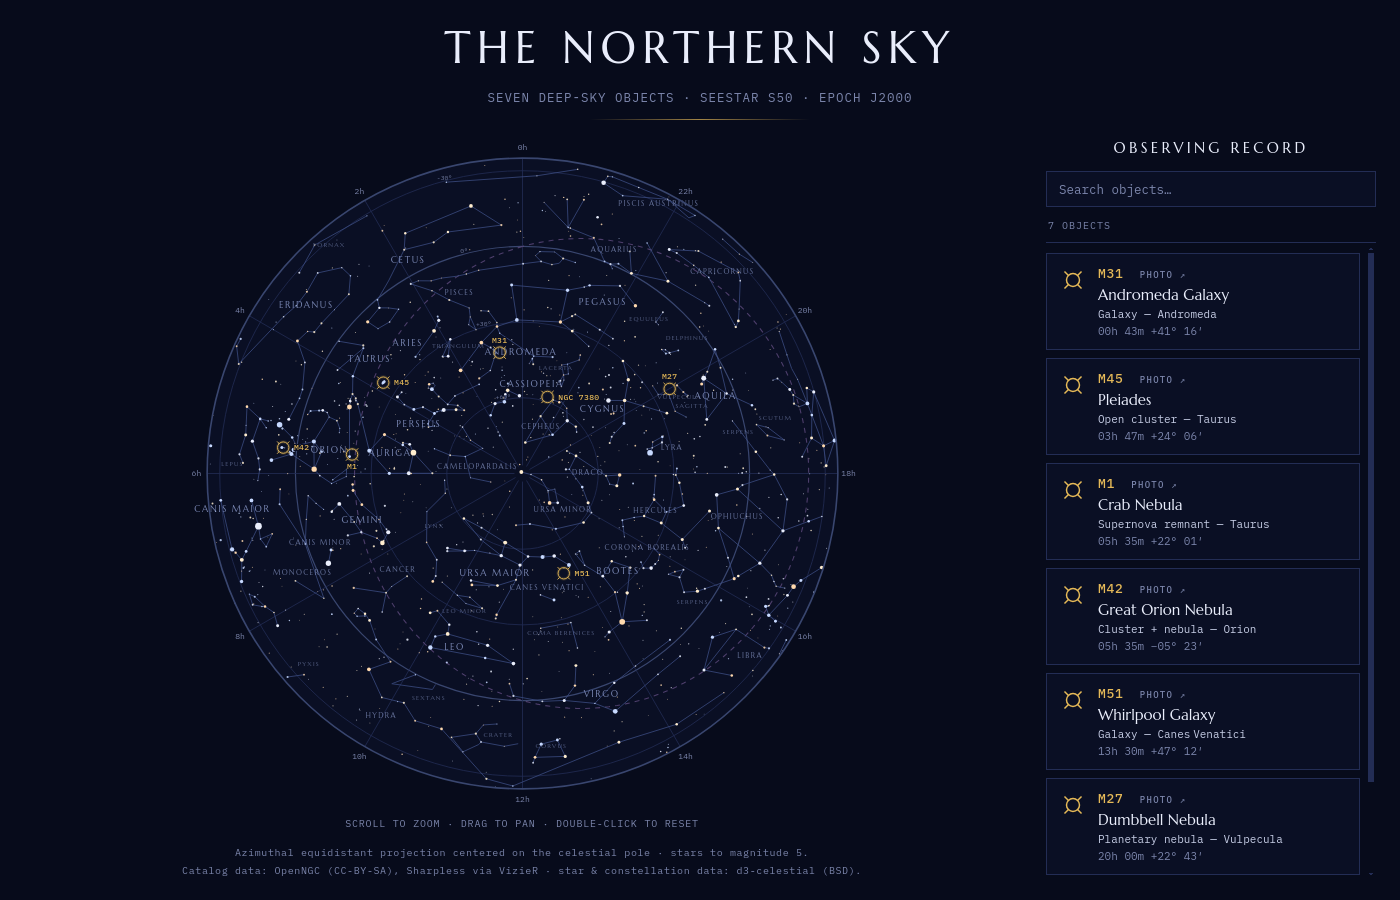
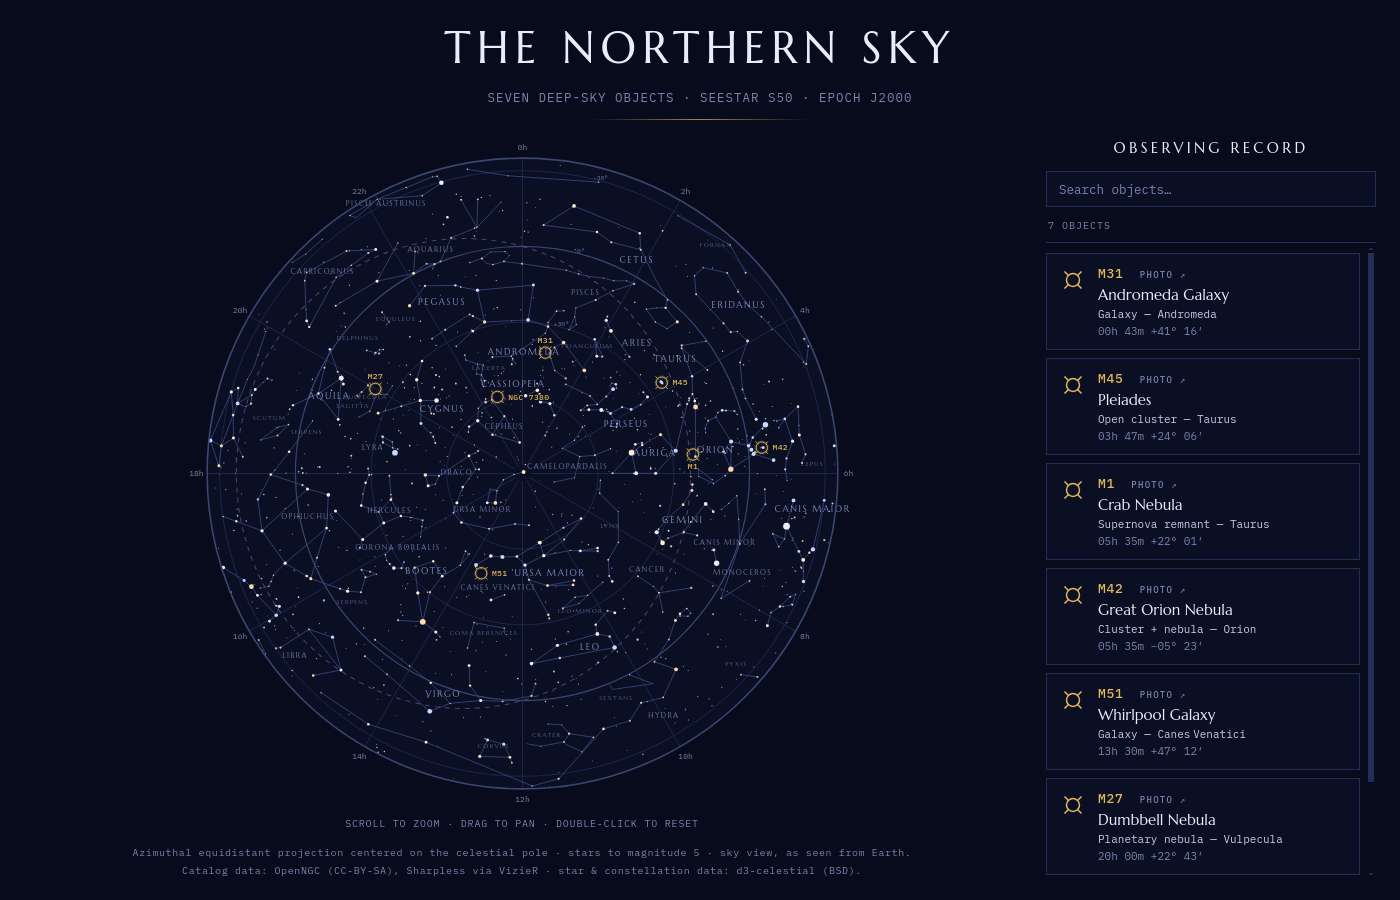
Default to true sky view; add mirror option (v0.3.0)
Polar discs were drawn with the celestial-globe chirality (RA
counterclockwise on the northern disc), the mirror image of the real
sky. Sky charts are views from inside the sphere: north-up/east-left on
equatorial charts, which carried to the pole means RA runs clockwise on
a northern disc and counterclockwise on a southern one.

Sky view is now the default. `mirror: true` in the config (or the
--mirror CLI flag) restores the globe orientation, which also matches
the view through a telescope star diagonal. The footer names the active
orientation.

diff --git a/src/uranometria/chart.py b/src/uranometria/chart.py
@@ -10,13 +10,19 @@ DEC_EDGE = 35.0  # how far past the equator each hemisphere chart reaches
 SCALE = R_MAX / (90.0 + DEC_EDGE)
 
 
-def project(ra_deg, dec_deg, south=False):
-    """Azimuthal equidistant about the celestial pole. Northern charts run RA
-    counterclockwise (0h at top); southern charts mirror it clockwise."""
+def ra_sign(south=False, mirror=False):
+    """Horizontal sense of increasing RA. Sky view (the default) shows the sky
+    as seen from Earth: RA runs clockwise on a northern polar disc and
+    counterclockwise on a southern one. Mirror view flips both — the
+    celestial-globe orientation, matching the view through a star diagonal."""
+    return 1.0 if south == mirror else -1.0
+
+
+def project(ra_deg, dec_deg, south=False, mirror=False):
+    """Azimuthal equidistant about the celestial pole, 0h at top."""
     r = (90.0 + dec_deg if south else 90.0 - dec_deg) * SCALE
     a = math.radians(ra_deg)
-    x = CX + r * math.sin(a) if south else CX - r * math.sin(a)
-    return x, CY - r * math.cos(a)
+    return CX + ra_sign(south, mirror) * r * math.sin(a), CY - r * math.cos(a)
 
 
 def visible(dec, south):
@@ -40,8 +46,10 @@ def star_color(bv):
 class Chart:
     """One hemisphere disc."""
 
-    def __init__(self, south, sky_data, mag_limit, show_ecliptic):
+    def __init__(self, south, sky_data, mag_limit, show_ecliptic, mirror=False):
         self.south = south
+        self.mirror = mirror
+        self.sign = ra_sign(south, mirror)
         self.data = sky_data
         self.mag_limit = mag_limit
         self.show_ecliptic = show_ecliptic
@@ -50,7 +58,7 @@ class Chart:
         self.name_boxes = []  # constellation-name boxes
 
     def p(self, ra, dec):
-        return project(ra, dec, self.south)
+        return project(ra, dec, self.south, self.mirror)
 
     def add_object(self, o, uid):
         x, y = self.p(o["ra"], o["dec"])
@@ -169,7 +177,7 @@ class Chart:
             out.append(f'<circle cx="{CX}" cy="{CY}" r="{r:.1f}" class="{cls}"/>')
         for h in range(0, 24, 2):
             a = math.radians(h * 15)
-            sx = -math.sin(a) if not self.south else math.sin(a)
+            sx = self.sign * math.sin(a)
             x1, y1 = CX + 12 * sx, CY - 12 * math.cos(a)
             x2, y2 = CX + R_MAX * sx, CY - R_MAX * math.cos(a)
             out.append(
@@ -181,7 +189,7 @@ class Chart:
         out = []
         for h in range(0, 24, 2):
             a = math.radians(h * 15)
-            sx = -math.sin(a) if not self.south else math.sin(a)
+            sx = self.sign * math.sin(a)
             x, y = CX + (R_MAX + 16) * sx, CY - (R_MAX + 16) * math.cos(a)
             out.append(f'<text x="{x:.1f}" y="{y:.1f}" dy="0.35em">{h}h</text>')
         return "".join(out)
@@ -192,7 +200,7 @@ class Chart:
         for dec in decs:
             r = (90 - dec if not self.south else 90 + dec) * SCALE
             a = math.radians(15)
-            sx = -math.sin(a) if not self.south else math.sin(a)
+            sx = self.sign * math.sin(a)
             x, y = CX + (r - 2) * sx, CY - (r - 2) * math.cos(a)
             t = f"{dec:+d}°" if dec else "0°"
             out.append(f'<text x="{x:.1f}" y="{y:.1f}" dy="-0.4em">{t}</text>')

diff --git a/tests/test_skymap.py b/tests/test_skymap.py
@@ -121,3 +121,23 @@ def test_hemisphere_toggle(tmp_path):
     assert 'class="chart hidden" data-hemi="south"' in html  # south starts hidden
     uranometria.generate({"objects": ["M31", "M42"]}, out, allow_online=False)
     assert 'id="hemitoggle"' not in out.read_text()  # no toggle when single
+
+
+def test_sky_view_orientation():
+    from uranometria.chart import CX, project
+
+    # Sky view: RA 6h sits right of center on a northern disc (RA clockwise
+    # from 0h at top), left of center on a southern disc.
+    assert project(90, 0)[0] > CX
+    assert project(90, 0, south=True)[0] < CX
+    # Mirror (celestial-globe) view flips both.
+    assert project(90, 0, mirror=True)[0] < CX
+    assert project(90, 0, south=True, mirror=True)[0] > CX
+
+
+def test_mirror_config(tmp_path):
+    out = tmp_path / "map.html"
+    uranometria.generate({"objects": ["M31"]}, out, allow_online=False)
+    assert "sky view" in out.read_text()
+    uranometria.generate({"objects": ["M31"], "mirror": True}, out, allow_online=False)
+    assert "mirrored (globe) view" in out.read_text()

diff --git a/src/uranometria/cli.py b/src/uranometria/cli.py
@@ -4,6 +4,8 @@ import argparse
 import os
 import sys
 
+import yaml
+
 from .core import SkymapError, generate
 
 
@@ -18,11 +20,23 @@ def main(argv=None):
         action="store_true",
         help="never call the online Sesame resolver for unknown designations",
     )
+    ap.add_argument(
+        "--mirror",
+        action="store_true",
+        help="mirrored (celestial-globe) orientation instead of the default "
+        "sky view; same as 'mirror: true' in the config",
+    )
     args = ap.parse_args(argv)
 
     out = args.output or os.path.splitext(args.config)[0] + ".html"
     try:
-        warnings = generate(args.config, out, allow_online=not args.offline)
+        with open(args.config) as f:
+            cfg = yaml.safe_load(f)
+        if not isinstance(cfg, dict):
+            raise SkymapError(f"{args.config} is not a mapping")
+        if args.mirror:
+            cfg["mirror"] = True
+        warnings = generate(cfg, out, allow_online=not args.offline)
     except (SkymapError, FileNotFoundError, ValueError) as e:
         sys.exit(f"error: {e}")
     for w in warnings:

diff --git a/src/uranometria/page.py b/src/uranometria/page.py
@@ -33,15 +33,16 @@ def _legend_html(objects):
 def build_page(cfg, objects):
     mag_limit = float(cfg.get("mag_limit", 5.0))
     show_ecl = bool(cfg.get("show_ecliptic", True))
+    mirror = bool(cfg.get("mirror", False))
     data = sky_data()
 
     need_south = any(o["dec"] < -DEC_EDGE for o in objects)
     need_north = any(o["dec"] > DEC_EDGE for o in objects) or not need_south
     charts = []
     if need_north:
-        charts.append(Chart(False, data, mag_limit, show_ecl))
+        charts.append(Chart(False, data, mag_limit, show_ecl, mirror=mirror))
     if need_south:
-        charts.append(Chart(True, data, mag_limit, show_ecl))
+        charts.append(Chart(True, data, mag_limit, show_ecl, mirror=mirror))
 
     for i, o in enumerate(objects):
         if len(charts) == 2:
@@ -208,7 +209,7 @@ footer {{ margin-top:14px; text-align:center; color:var(--dim); font-size:10px;
 {chart_html}
 <p class="zoomhint">SCROLL TO ZOOM · DRAG TO PAN · DOUBLE-CLICK TO RESET</p>
 <footer>
-  Azimuthal equidistant projection centered on the celestial pole{" (each hemisphere charted to decl. ±" + str(int(DEC_EDGE)) + "° past the equator)" if two else ""} · stars to magnitude {mag_limit:g}.<br>
+  Azimuthal equidistant projection centered on the celestial pole{" (each hemisphere charted to decl. ±" + str(int(DEC_EDGE)) + "° past the equator)" if two else ""} · stars to magnitude {mag_limit:g} · {"mirrored (globe) view" if mirror else "sky view, as seen from Earth"}.<br>
   Catalog data: OpenNGC (CC-BY-SA), Sharpless via VizieR · star &amp; constellation data: d3-celestial (BSD).
 </footer>
 </div>

diff --git a/src/uranometria/__init__.py b/src/uranometria/__init__.py
@@ -12,5 +12,5 @@ designations and/or fully-specified entries. See `uranometria.core` for the sche
 
 from .core import SkymapError, generate, render, resolve_objects
 
-__version__ = "0.2.0"
+__version__ = "0.3.0"
 __all__ = ["generate", "render", "resolve_objects", "SkymapError", "__version__"]

diff --git a/README.md b/README.md
@@ -45,7 +45,13 @@ From a local checkout: `uv tool install <path-to-checkout>`.
 uranometria skymap.yaml                 # writes skymap.html next to the config
 uranometria skymap.yaml -o map.html
 uranometria skymap.yaml --offline       # never call the online resolver
+uranometria skymap.yaml --mirror        # mirrored (celestial-globe) orientation
 ```
+
+Charts default to **sky view** — oriented as the sky actually appears from
+Earth (RA runs clockwise around a northern polar disc). `--mirror` /
+`mirror: true` flips to the celestial-globe orientation, which also matches
+the view through a telescope star diagonal.
 
 ## Config
 
@@ -54,6 +60,9 @@ title: The Northern Sky        # optional
 subtitle: ...                  # optional
 mag_limit: 5.0                 # optional — faintest stars drawn
 show_ecliptic: true            # optional
+mirror: false                  # optional — true flips to the mirrored
+                               #   (celestial-globe) orientation, e.g. for
+                               #   observing through a star diagonal
 objects:
   - M31                        # bare designation
   - id: Sh2-142                # catalog lookup + overrides